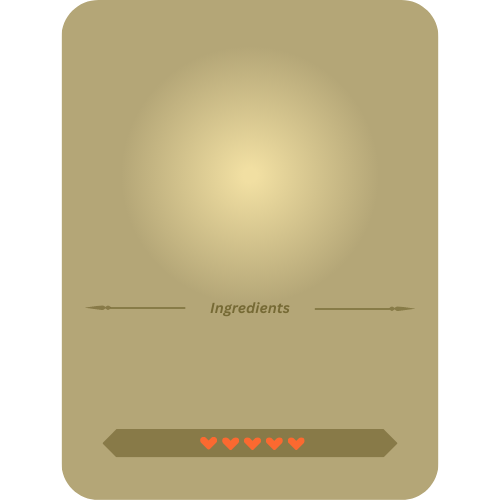
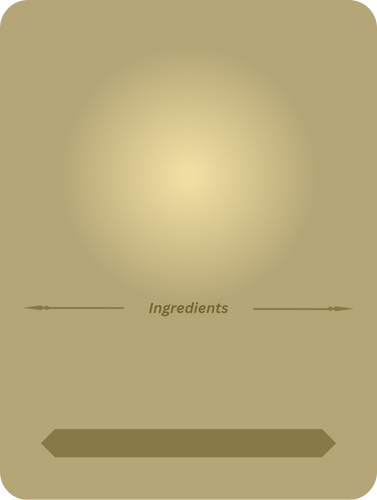
fixed recipe card styling issues and ingredient sizes in carousels

diff --git a/src/pages/CreateRecipe.js b/src/pages/CreateRecipe.js
@@ -12,15 +12,17 @@ const CreateRecipe = () => {
   const [image, setImage] = useState('');
   const [ingredientsList, setIngredientsList] = useState([]);
   const navigate = useNavigate();
+  const [hearts, setHearts] = useState(0);
   const [previewRecipe, setPreviewRecipe] = useState({
     name: '',
     effects: '',
     description: '',
     imageFilename: '',
     ingredients: [],
+    hearts: 0, // set initial hearts value
     userId: {
       _id: localStorage.getItem('userId'),
-      username: localStorage.getItem('username') // Assuming 'username' is the key where the username is stored
+      username: localStorage.getItem('username')
     }
   });
 
@@ -55,6 +57,7 @@ const CreateRecipe = () => {
         description,
         ingredients: ingredientNames,
         imageFilename: image,
+        hearts,
         userId,
       };
       console.log("Request Body: ", requestBody);
@@ -84,45 +87,101 @@ const CreateRecipe = () => {
 
   return (
     <div className="mx-auto my-auto text-white w-1/2 pt-10">
-      <div className="bg-black/70 px-2 rounded-2xl relative pb-12">
+      <div className="bg-black/70 rounded-2xl relative pb-6">
         <div className="flex flex-row items-start justify-start h-3/4 ">
-          <div className="flex flex-col items-center justify-start max-w-sm mx-auto px-5 py-4 rounded text-white">
+          <div className="flex flex-col items-center justify-start max-w-sm mx-auto pt-6 rounded text-white">
+           
             <h1 className="text-4xl font-custom pb-4">Create New Recipe</h1>
             {errorMessage && <p className="text-red-500">{errorMessage}</p>}
+           
             <form onSubmit={handleSubmit}>
               <h3 className='text-white font-bold py-2'>Recipe Details</h3>
+           
+              {/* Recipe Name */}
               <input type="text" value={name} onChange={(e) => {
                 setName(e.target.value);
                 setPreviewRecipe(prev => ({ ...prev, name: e.target.value }));
-              }} placeholder="Name" required />
+              }} placeholder="Name (max 25)" required 
+                maxLength={25}/>
 
-              <input type="text" value={description} onChange={(e) => {
-                setDescription(e.target.value);
-                setPreviewRecipe(prev => ({ ...prev, description: e.target.value }));
-              }} placeholder="Description" required /> 
 
+              {/* Recipe Description */}
+              <input 
+                type="text" 
+                value={description} 
+                onChange={(e) => {
+                  setDescription(e.target.value);
+                  setPreviewRecipe(prev => ({ ...prev, description: e.target.value }));
+                }} 
+                placeholder="Description (max 75)" 
+                required 
+                maxLength={70} // limit to 75 characters
+              />
+              
+              {/* Recipe Image Selector */}
               <h3 className='text-white font-bold py-2'>Select Recipe Image</h3>
+                <select onChange={(e) => {
+                  setImage(e.target.value);
+                  setPreviewRecipe(prev => ({ ...prev, imageFilename: e.target.value }));
+                }} required>
+                  <option value="">Select an image</option>
+                  {Object.keys(recipeImages).map((recipeName) => (
+                    <option value={recipeName} key={recipeName}>{recipeName}</option>
+                  ))}
+                </select>
+
+              {/* Heart Selector */}
+              <h3 className='text-white font-bold py-2'>Hearts</h3>
               <select onChange={(e) => {
-                setImage(e.target.value);
-                setPreviewRecipe(prev => ({ ...prev, imageFilename: e.target.value }));
+                  setHearts(e.target.value === 'Full' ? 20 : Number(e.target.value));
+                  setPreviewRecipe(prev => ({ ...prev, hearts: e.target.value === 'Full' ? 20 : Number(e.target.value) }));
               }} required>
-                <option value="">Select an image</option>
-                {Object.keys(recipeImages).map((recipeName) => (
-                  <option value={recipeName} key={recipeName}>{recipeName}</option>
-                ))}
+                  {[...Array(12).keys()].map(i => {
+                      return <option value={i} key={i}>{i}</option>;
+                  })}
+                  <option value='Full'>Full</option>
               </select>
 
+              {/* Effects Selector */}
+              <h3 className='text-white font-bold py-2'>Effects</h3>
+              <select onChange={(e) => {
+                  setEffects(e.target.value);
+                  setPreviewRecipe(prev => ({ ...prev, effects: e.target.value }));
+              }} required>
+                  <option value="">Select an effect</option>
+                  <option value="No special effect">No special effect</option>
+                  <option value="Gloom Resist">Gloom Resist</option>
+                  <option value="Shock Resist">Shock Resist</option>
+                  <option value="Adds Stamina">Adds Stamina</option>
+                  <option value="Restores Stamina">Restores Stamina</option>
+                  <option value="Fire Resist">Fire Resist</option>
+                  <option value="Heat Resist">Heat Resist</option>
+                  <option value="Movement Speed Up">Move Speed Up</option>
+                  <option value="Attack Up">Attack Up</option>
+                  <option value="Stealth Up">Stealth Up</option>
+                  <option value="Cold Resist">Cold Resist</option>
+                  <option value="Grip Up">Grip Up</option>
+                  <option value="Heals Gloom Damage">Heals Gloom Damage</option>
+                  <option value="Defence Up">Defence Up</option>
+                  <option value="Glow">Glow</option>
+                  <option value="Hot Weather Atk Up">Hot Weather Atk Up</option>
+                  <option value="Cold Weather Atk Up">Cold Weather Attack Up</option>
+                  <option value="Stormy Weather Atk Up">Stormy Weather Attack Up</option>
+                  <option value="Swim Speed Up">Swim Speed Up</option>
+              </select>
+
+
               <h3 className='text-white font-bold py-2'>Select Ingredients</h3>
-  {ingredients.map((ingredient, index) => (
-    <div key={index}>
-      <select id={`ingredient${index + 1}`} value={ingredient.id} onChange={(e) => handleIngredientChange(index, e.target.value)} required>
-        <option value="">Select Ingredient #{index + 1}</option>
-        {ingredientsList.map((ingredient) => (
-          <option value={ingredient.name} key={ingredient._id}>
-            {ingredient.name}
-          </option>
-        ))}
-      </select>
+                {ingredients.map((ingredient, index) => (
+                  <div key={index}>
+                    <select id={`ingredient${index + 1}`} value={ingredient.id} onChange={(e) => handleIngredientChange(index, e.target.value)} required>
+                      <option value="">Select Ingredient #{index + 1}</option>
+                      {ingredientsList.map((ingredient) => (
+                        <option value={ingredient.name} key={ingredient._id}>
+                          {ingredient.name}
+                        </option>
+                      ))}
+                    </select>
 
       <button onClick={() => {
         const newIngredients = [...ingredients];
@@ -136,7 +195,7 @@ const CreateRecipe = () => {
     </div>
   ))}
 
-<div className="mt-2">
+<div className="mt-2 font-bold">
     <button onClick={() => {
       if (ingredients.length < 5) {
         setIngredients(prev => [...prev, { id: '', selectedIngredient: null }])

diff --git a/src/components/RecipeCard.js b/src/components/RecipeCard.js
@@ -1,17 +1,17 @@
 import React, { useEffect } from 'react';
-import CircleType from 'circletype';
+// import CircleType from 'circletype';
 import { ingredientImages } from '../ingredientImages';
 import { recipeImages } from '../recipeImages'; 
 import { Link } from 'react-router-dom';
 
 const RecipeCard = ({ recipe }) => {
-  useEffect(() => {
-    const recipeNameElement = document.getElementById('recipe-name');
-    if (recipeNameElement) {
-      const circleType = new CircleType(recipeNameElement);
-      circleType.radius(200);
-    }
-  }, [recipe]);
+  // useEffect(() => {
+  //   const recipeNameElement = document.getElementById('recipe-name');
+  //   if (recipeNameElement) {
+  //     const circleType = new CircleType(recipeNameElement);
+  //     circleType.radius(200);
+  //   }
+  // }, [recipe]);
 
   // If recipe or recipe.userId is undefined, return a placeholder layout
   if (!recipe || !recipe.userId) {
@@ -26,45 +26,60 @@ const RecipeCard = ({ recipe }) => {
 
   return (
     <Link to={`/view-recipe/${recipe._id}`}>
-    <div className="w-96 h-4/5 rounded-lg shadow-lg overflow-hidden mx-auto relative">
-      {/* This is your background image. Change width of recipe card later */}
+    
+    {/* Container div */}
+    <div className="h-4/5 rounded-lg shadow-lg overflow-hidden mx-auto relative text-recipe-card-brown">
+
+      {/* Recipe Card Background */}
       <img className="h-96 w-full object-contain" src="/RecipeCard.png" alt="Recipe Card Background" />
 
-      {/* This is the selected recipe image */}
+      {/* Selected Recipe Image */}
       {recipe.imageFilename && recipeImages[recipe.imageFilename] ? (
         <img className="h-24 w-full object-contain absolute top-16 left-0" src={recipeImages[recipe.imageFilename]} alt="Selected Recipe" />
       ) : recipe.imageFilename ? (
         <p className="absolute top-20 left-0 bg-white">Image not found: {recipe.imageFilename}</p>
       ) : null}
 
+      {/* Recipe Name */}
       <div className="p-4 absolute top-2 left-0 bg-opacity-50 w-full">
-        <h3 id="recipe-name" className="text-xl font-bold text-center mb-16">{recipe.name}</h3>
+        <h3 id="recipe-name" className=" text-center text-xl font-bold mb-16">{recipe.name}</h3>
       </div>
 
-      {/* Recipe description */}
-      <div className="p-2 absolute top-44 bg-opacity-50 w-full text-center">
-        <p className="text-xs w-full">{recipe.description}</p>
+      {/* Recipe Description */}
+      <div className="absolute pt-1 top-44 italic text-center bg-opacity-50">
+        <p className="recipe-description px-4 text-center text-sm">{recipe.description}</p>
       </div>
 
-      <div className="p-4 absolute top-40 left-0 bg-opacity-50 w-full">
-        <div className="flex justify-center space-x-2 m-12">
-          {recipe.ingredients.map((ingredient, index) => (
-            <img 
-              key={ingredient._id} 
-              className={`h-12 w-12 ${index % 2 === 0 ? 'mt-12' : 'mt-6'}`} 
-              src={ingredientImages[ingredient.name]} 
-              alt={ingredient.name} 
-            />
-          ))}
+      {/* Recipe Ingredients */}
+      <div className="p-1 absolute top-56 left-0 bg-opacity-50 w-full">
+        <div className="flex justify-center space-x-1">
+        {recipe.ingredients.map((ingredient, index) => (
+          <img 
+            key={ingredient._id} 
+            className={`ingredient-image ${index % 2 === 0 ? 'mt-12' : 'mt-6'}`} 
+            src={ingredientImages[ingredient.name]} 
+            alt={ingredient.name} 
+          />
+        ))}
         </div>
       </div>
-      <div className="p-2 absolute text-xs bottom-1 bg-opacity-50 w-full text-center">
-      <p className="text-xs">Submitted by: {recipe.userId.username}</p>
-      </div>
+
+      {/* Hearts and effects display */}
+          <div className="pl-3.5 mb-2.5 absolute left-20 text-sm text-white bottom-6 bg-opacity-50 flex items-center">
+            {/* <div className="absolute text-sm left-24 bottom-[-4] pt-2 flex justify-center items-center"> */}
+              <img src="/heart.png" alt="heart" className="heart-image h-3 w-4 pr-1"/>
+              <p className='text-sm pr-12'>{recipe.hearts === 20 ? 'Full' : recipe.hearts}</p>
+              <p className='text-xs'>{recipe.effects}</p>
+            </div>
+        
+
+        {/* User ID display */}
+        <div className="p-2 absolute text-xs italic bottom-1 bg-opacity-50 w-full text-center">
+          <p className="text-xs">Submitted by: {recipe.userId.username}</p>
+        </div>
     </div>
     </Link>
   );
 };
 
 export default RecipeCard;
-

diff --git a/src/App.css b/src/App.css
@@ -14,15 +14,16 @@ h1, h2  {
 
 h3, h4, h5, h6 {
   font-family: 'Open Sans', serif;
-  color:#564B0F;
 }
 
 p {
   font-family: 'Open Sans', serif;
-  font-style: italic;
-  color:#564B0F;
-  font-size: medium;
+  /* font-style: italic; */
+  /* font-size: medium; */
 }
+
+
+
 
 /* .carousel-box {
   background-color: black;
@@ -95,6 +96,22 @@ p {
 
 .App-link {
   color: #61dafb;
+}
+
+.ingredient-image {
+  max-width: 50px;
+  height: 45px;
+}
+
+.heart-image {
+  max-width: 19px;  /* or any size you want */
+  height: 14px;
+}
+
+.recipe-description {
+  word-wrap: normal;
+  width: 280px; 
+  text-align: center;
 }
 
 

diff --git a/src/pages/Signup.js b/src/pages/Signup.js
@@ -78,7 +78,7 @@ const Signup = () => {
           </div>
           <div className="flex items-center justify-between">
             <button 
-              className="px-4 py-2 font-bold text-white bg-totk-green rounded hover:bg-totk-green-light focus:outline-none focus:shadow-outline" 
+              className="px-4 py-2 font-bold text-white bg-totk-green-light rounded hover:bg-totk-green focus:outline-none focus:shadow-outline" 
               type="submit"
             >
               Sign Up

diff --git a/tailwind.config.js b/tailwind.config.js
@@ -8,6 +8,7 @@ module.exports = {
       colors: {
         'totk-green': '#1B443C',
         'totk-green-light': '#41a390',
+        'recipe-card-brown': '#564B0F',
       },
       backgroundImage: {
         'hero-pattern': "url('assets/seamless-bg.png')",
